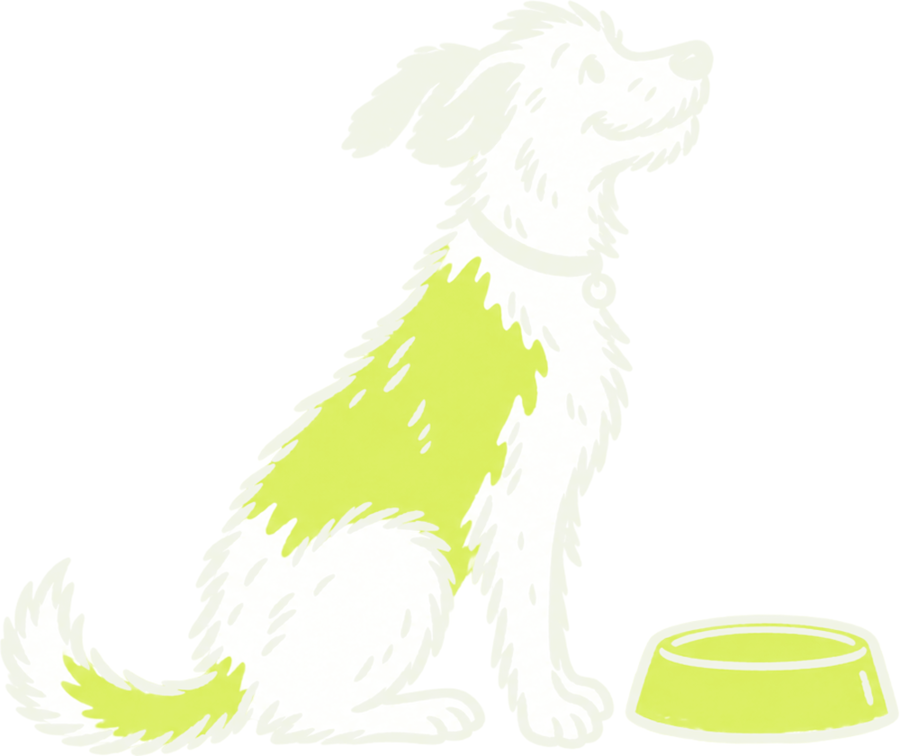
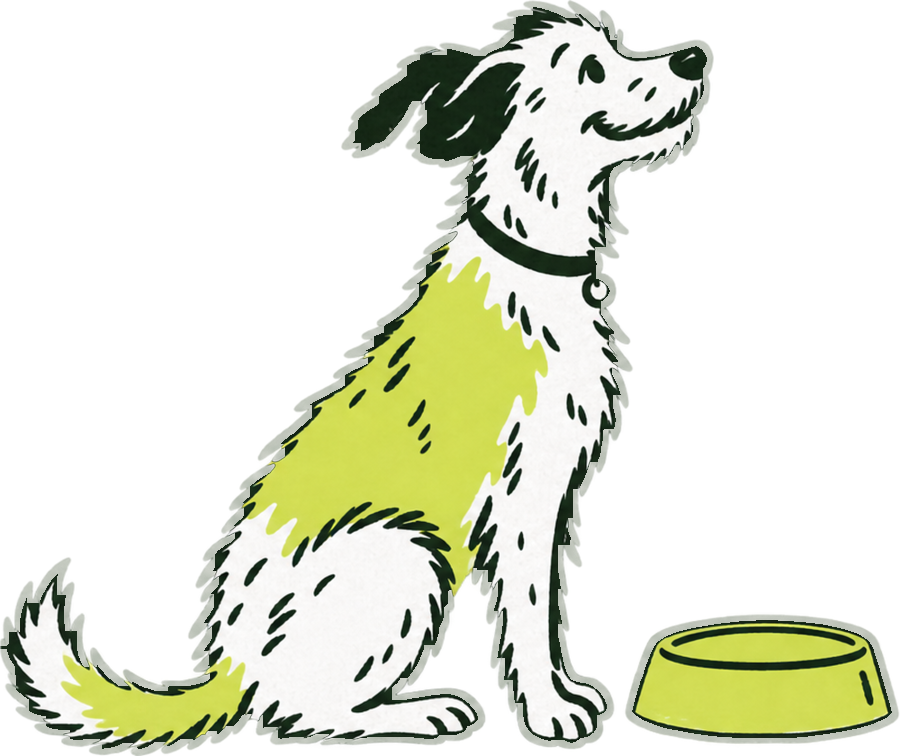
Website landing redesign: paper pile, Hundewiese, display-hero
New pose papers (dog in the paper pile) with handwritten prop labels, meadow
and ball-grass props, WebP copies for the website under
assets/illustrations/web, the display-hero type token, and the website
structure in 10-anwendung. sniffing-shell and bowl-shell now keep the white
coat like papers-shell. Decisions in 03, 05 and 10 (Fall 2).

diff --git a/preview/tokens.js b/preview/tokens.js
@@ -1,2 +1,2 @@
 /* Generated from tokens/tokens.json by scripts/build-tokens.js. Do not edit by hand. */
-window.FRAPPIES_TOKENS = {"$schema":"https://tr.designtokens.org/format/","$description":"Frappies brand tokens. Single source of truth for every surface (app, web, e-mail, stores). Values are identical to the shipping app (frappies-app: src/hooks/useThemeColors.ts, src/global.css). Edit this file, then run `node scripts/build-tokens.js` to regenerate tokens.css and tokens.tailwind.css.","$extensions":{"frappies":{"version":"1.0.0","world":"Hundewiese am Nachmittag (The Afternoon Dog Meadow)","idea":"The tennis ball always sits on the next thing your dog needs."}},"color":{"$type":"color","light":{"background":{"$value":"#F2F4EC","$description":"Kleeboden / Clover Ground. Page background behind every card."},"foreground":{"$value":"#14301F","$description":"Kleetinte / Clover Ink. Body text, headlines, active tab tint."},"card":{"$value":"#FFFFFF","$description":"Kartenweiß / Card White. Cards, fields, tab bar, round header buttons."},"primary":{"$value":"#D9EE52","$description":"Tennisball-Filz / Tennis-Ball Felt. The one primary action, the active tab, the active dog, the next ball. Identical in both themes."},"primary-foreground":{"$value":"#14301F","$description":"Tinte auf Filz / Ink On Felt. The only text colour allowed on felt."},"primary-soft":{"$value":"#ECF5C4","$description":"Filzwäsche / Felt Wash. Fill of a field whose value was read from a photo."},"primary-hover":{"$value":"#CDE33F","$description":"Felt one step deeper. Web hover state of the primary button only. Brand extension, not yet in the app."},"brand":{"$value":"#2E6B3F","$description":"Wiesengrün / Meadow Green. Links, outline button text and border, focused field border, caret, focus ring, success text."},"secondary":{"$value":"#14301F","$description":"Tintenfüllung / Clover Ink Fill. Secondary button, selected choice chip, the ink tool tile."},"secondary-foreground":{"$value":"#F2F4EC","$description":"Boden auf Tinte / Ground On Ink. Text on an ink fill."},"accent":{"$value":"#E7EBDD","$description":"Kleedunst / Clover Mist. Disclaimer banner, disabled fill, inactive choice chips, icon tiles."},"accent-foreground":{"$value":"#3F5A47","$description":"Dunsttinte / Mist Ink. Text inside the disclaimer banner."},"muted":{"$value":"#E7EBDD","$description":"Same as accent. Kept as a separate name for Tailwind/shadcn habits."},"muted-foreground":{"$value":"#5B6F5F","$description":"Salbei / Sage Text. Meta lines, placeholders, inactive tab labels, disabled labels. Tinted from clover, never grey."},"border":{"$value":"#DCE3D3","$description":"Heckenlinie / Hedge Line. 1px row dividers, 1.5px resting field border."},"destructive":{"$value":"#B42318","$description":"Alarmrot / Alarm Red. Error text, 10% error tint, destructive labels, delete icon. Never a large fill."},"destructive-foreground":{"$value":"#FFFFFF"},"success":{"$value":"#2E6B3F","$description":"Confirmation banners. Meadow Green in light."},"warning":{"$value":"#FF6A3D","$description":"Frisbee-Orange. Fill of a time chip that is due today or overdue. Nothing else."},"warning-foreground":{"$value":"#14301F","$description":"Tinte auf Frisbee / Ink On Frisbee."},"warning-ink":{"$value":"#B83A14","$description":"Frisbee-Tinte / Frisbee Ink. Orange as text on light surfaces."},"info":{"$value":"#2E6B3F"},"shell":{"$value":"#14301F","$description":"Kleeschale / Clover Shell. The dark header and hero cards."},"shell-foreground":{"$value":"#F2F4EC"},"shell-muted":{"$value":"#A9B8A6","$description":"Secondary text on the shell."},"shell-raised":{"$value":"#22432F","$description":"Raised well on the shell (avatar well)."}},"dark":{"background":{"$value":"#0F2117"},"foreground":{"$value":"#EEF2E6"},"card":{"$value":"#17301F"},"primary":{"$value":"#D9EE52","$description":"Felt never changes."},"primary-foreground":{"$value":"#14301F","$description":"Ink on felt never changes."},"primary-soft":{"$value":"#2E4220"},"primary-hover":{"$value":"#CDE33F"},"brand":{"$value":"#D9EE52","$description":"Meadow Green would vanish on the dark ground, so brand becomes felt."},"secondary":{"$value":"#EEF2E6","$description":"The ink fill flips to pale clover."},"secondary-foreground":{"$value":"#14301F"},"accent":{"$value":"#1E3A28"},"accent-foreground":{"$value":"#C3CDB8"},"muted":{"$value":"#1E3A28"},"muted-foreground":{"$value":"#A9B8A6"},"border":{"$value":"#2A4733"},"destructive":{"$value":"#FF7A66"},"destructive-foreground":{"$value":"#14301F"},"success":{"$value":"#A8D98A"},"warning":{"$value":"#FF8A5C"},"warning-foreground":{"$value":"#14301F"},"warning-ink":{"$value":"#FF8A5C"},"info":{"$value":"#A8D98A"},"shell":{"$value":"#1F3F2B"},"shell-foreground":{"$value":"#EEF2E6"},"shell-muted":{"$value":"#A9B8A6"},"shell-raised":{"$value":"#2C5239"}},"static":{"$description":"Values that never follow the theme.","felt":{"$value":"#D9EE52","$description":"Logo ball, wordmark on the shell, splash and icon."},"ink":{"$value":"#14301F","$description":"Logo line and letters on light grounds, icon background."},"chalk":{"$value":"#F2F4EC","$description":"Logo seam and zoomies loop on the icon."}}},"font":{"family":{"$type":"fontFamily","display":{"$value":["Bricolage Grotesque","system-ui","sans-serif"],"$description":"Headlines, counts, figures, the due time chip. Google Fonts, SIL Open Font License."},"body":{"$value":["Figtree","system-ui","sans-serif"],"$description":"Everything the thumb operates: body, labels, controls, meta. Google Fonts, SIL Open Font License."},"email":{"$value":["-apple-system","BlinkMacSystemFont","Segoe UI","Helvetica","Arial","sans-serif"],"$description":"HTML e-mail only, where web fonts do not load."}},"weight":{"$type":"fontWeight","display-heavy":{"$value":800},"display-bold":{"$value":700},"body-regular":{"$value":400},"body-semibold":{"$value":600},"body-bold":{"$value":700}}},"type":{"$type":"typography","$description":"fontFamily refers to font.family. Sizes in px at 1x. Web-only scales (display-xl, display-l) extend the app ramp upward for marketing surfaces.","display-xl":{"$value":{"fontFamily":"{font.family.display}","fontSize":"56px","fontWeight":800,"lineHeight":"60px","letterSpacing":"-0.03em"},"$description":"Web hero headline. Brand extension."},"display-l":{"$value":{"fontFamily":"{font.family.display}","fontSize":"44px","fontWeight":800,"lineHeight":"48px","letterSpacing":"-0.03em"},"$description":"Web section headline. Brand extension."},"display":{"$value":{"fontFamily":"{font.family.display}","fontSize":"32px","fontWeight":800,"lineHeight":"36px","letterSpacing":"-0.025em"},"$description":"Home shell headline, dog name on the detail hero, empty-state titles."},"figure":{"$value":{"fontFamily":"{font.family.display}","fontSize":"30px","fontWeight":800,"lineHeight":"32px","letterSpacing":"0"},"$description":"The count in a record cell. Never alone."},"headline":{"$value":{"fontFamily":"{font.family.display}","fontSize":"22px","fontWeight":800,"lineHeight":"28px","letterSpacing":"-0.025em"},"$description":"Floating header title, dog names in the list."},"title":{"$value":{"fontFamily":"{font.family.display}","fontSize":"20px","fontWeight":700,"lineHeight":"28px","letterSpacing":"0"},"$description":"Section headings."},"title-sm":{"$value":{"fontFamily":"{font.family.display}","fontSize":"18px","fontWeight":700,"lineHeight":"28px","letterSpacing":"0"},"$description":"Card sub-headings, form card titles."},"time-chip":{"$value":{"fontFamily":"{font.family.display}","fontSize":"14px","fontWeight":700,"lineHeight":"20px","letterSpacing":"0"},"$description":"The only Bricolage below 18px."},"body":{"$value":{"fontFamily":"{font.family.body}","fontSize":"16px","fontWeight":400,"lineHeight":"24px","letterSpacing":"0"}},"body-strong":{"$value":{"fontFamily":"{font.family.body}","fontSize":"16px","fontWeight":700,"lineHeight":"24px","letterSpacing":"0"},"$description":"Button labels, row titles in the Up-next track."},"row-title":{"$value":{"fontFamily":"{font.family.body}","fontSize":"15px","fontWeight":700,"lineHeight":"20px","letterSpacing":"0"},"$description":"Record-cell labels, dog-chip names."},"label":{"$value":{"fontFamily":"{font.family.body}","fontSize":"14px","fontWeight":600,"lineHeight":"20px","letterSpacing":"0"},"$description":"Field labels, choice chips, disclaimer."},"meta":{"$value":{"fontFamily":"{font.family.body}","fontSize":"13px","fontWeight":400,"lineHeight":"18px","letterSpacing":"0"}},"tab-label":{"$value":{"fontFamily":"{font.family.body}","fontSize":"12px","fontWeight":600,"lineHeight":"16px","letterSpacing":"0"},"$description":"Tab bar only."},"prose":{"$value":{"fontFamily":"{font.family.body}","fontSize":"18px","fontWeight":400,"lineHeight":"28px","letterSpacing":"0"},"$description":"Long-form reading on the web (articles, help). Brand extension."}},"radius":{"$type":"dimension","control":{"$value":"14px","$description":"Things you operate: buttons, fields, choice chips, banners."},"card":{"$value":"18px","$description":"Things you read: cards, record cells, hero cards."},"shell":{"$value":"28px","$description":"Bottom corners of the Home shell only."},"pill":{"$value":"9999px","$description":"Ball, avatars, dog chips, active tab pill, round icon buttons. Never a button."},"nested-sm":{"$value":"6px","$description":"Due time chip, dog-name tag. Only nested inside control or card radius."},"nested-md":{"$value":"10px","$description":"Choice chips in a grid, photo thumbnails. Only nested."}},"space":{"$type":"dimension","xs":{"$value":"4px"},"sm":{"$value":"8px"},"md":{"$value":"12px"},"lg":{"$value":"16px"},"xl":{"$value":"20px"},"2xl":{"$value":"24px"},"3xl":{"$value":"32px"},"4xl":{"$value":"48px","$description":"Web section rhythm. Brand extension."},"5xl":{"$value":"80px","$description":"Web section rhythm. Brand extension."}},"size":{"$type":"dimension","control":{"$value":"52px","$description":"Buttons and fields."},"touch":{"$value":"44px","$description":"Minimum hit area of anything tappable."},"icon-button":{"$value":"44px"},"icon":{"$value":"24px","$description":"Phosphor icon size in rows and tabs."},"icon-inline":{"$value":"18px","$description":"Icon inside a button label."},"row":{"$value":"64px","$description":"List row inside a card; 68px when it carries a meta line."},"record-cell":{"$value":"116px"},"header":{"$value":"60px","$description":"Floating header bar, plus status inset."},"tab-bar":{"$value":"70px","$description":"Plus bottom inset."},"avatar":{"$value":"32px","$description":"Inside a 44px dog chip."},"screen-inset":{"$value":"16px","$description":"20px on Home."},"ball-slot":{"$value":"40px","$description":"Fixed slot the next ball sits in."},"ball-today":{"$value":"34px","$description":"Due today or overdue. Shows the seam."},"ball-week":{"$value":"22px","$description":"Due this week. Plain disc."},"ball-later":{"$value":"10px","$description":"Later. Hedge-line dot."},"web-measure":{"$value":"68ch","$description":"Reading measure of web prose. Brand extension."},"web-container":{"$value":"1200px","$description":"Web content container. Brand extension."}},"stroke":{"$type":"dimension","field":{"$value":"1.5px","$description":"Resting field border, outline button border."},"divider":{"$value":"1px"},"focus":{"$value":"2px","$description":"Web focus ring, offset 2px, colour brand."}},"shadow":{"$type":"shadow","fab":{"$value":{"color":"rgba(20, 48, 31, 0.25)","offsetX":"0px","offsetY":"6px","blur":"14px","spread":"0px"},"$description":"The only shadow in the system: the floating add-dog button."}},"motion":{"spring":{"press":{"$value":{"damping":20,"stiffness":400},"$description":"Button press, scale to 0.97."},"entry":{"$value":{"damping":18,"stiffness":300},"$description":"Cards and illustrations entering."},"ball":{"$value":{"damping":14,"stiffness":140},"$description":"The next ball rolling onto the next row: 64px travel, 300deg spin."},"hero":{"$value":{"damping":14,"stiffness":120,"delay":150},"$description":"Home hero illustration."}},"duration":{"$type":"duration","fast":{"$value":"220ms","$description":"Ball resize, ease-out."},"base":{"$value":"250ms","$description":"Banner fade."},"slow":{"$value":"350ms"}},"easing":{"$type":"cubicBezier","out":{"$value":[0.16,1,0.3,1],"$description":"Exponential ease-out for anything web-side that is not a spring."}},"reduced-motion":{"$value":"Every motion has a branch that renders the final state. Entrances render static, the ball crossfades, buttons do not scale."}}};
+window.FRAPPIES_TOKENS = {"$schema":"https://tr.designtokens.org/format/","$description":"Frappies brand tokens. Single source of truth for every surface (app, web, e-mail, stores). Values are identical to the shipping app (frappies-app: src/hooks/useThemeColors.ts, src/global.css). Edit this file, then run `node scripts/build-tokens.js` to regenerate tokens.css and tokens.tailwind.css.","$extensions":{"frappies":{"version":"1.0.0","world":"Hundewiese am Nachmittag (The Afternoon Dog Meadow)","idea":"The tennis ball always sits on the next thing your dog needs."}},"color":{"$type":"color","light":{"background":{"$value":"#F2F4EC","$description":"Kleeboden / Clover Ground. Page background behind every card."},"foreground":{"$value":"#14301F","$description":"Kleetinte / Clover Ink. Body text, headlines, active tab tint."},"card":{"$value":"#FFFFFF","$description":"Kartenweiß / Card White. Cards, fields, tab bar, round header buttons."},"primary":{"$value":"#D9EE52","$description":"Tennisball-Filz / Tennis-Ball Felt. The one primary action, the active tab, the active dog, the next ball. Identical in both themes."},"primary-foreground":{"$value":"#14301F","$description":"Tinte auf Filz / Ink On Felt. The only text colour allowed on felt."},"primary-soft":{"$value":"#ECF5C4","$description":"Filzwäsche / Felt Wash. Fill of a field whose value was read from a photo."},"primary-hover":{"$value":"#CDE33F","$description":"Felt one step deeper. Web hover state of the primary button only. Brand extension, not yet in the app."},"brand":{"$value":"#2E6B3F","$description":"Wiesengrün / Meadow Green. Links, outline button text and border, focused field border, caret, focus ring, success text."},"secondary":{"$value":"#14301F","$description":"Tintenfüllung / Clover Ink Fill. Secondary button, selected choice chip, the ink tool tile."},"secondary-foreground":{"$value":"#F2F4EC","$description":"Boden auf Tinte / Ground On Ink. Text on an ink fill."},"accent":{"$value":"#E7EBDD","$description":"Kleedunst / Clover Mist. Disclaimer banner, disabled fill, inactive choice chips, icon tiles."},"accent-foreground":{"$value":"#3F5A47","$description":"Dunsttinte / Mist Ink. Text inside the disclaimer banner."},"muted":{"$value":"#E7EBDD","$description":"Same as accent. Kept as a separate name for Tailwind/shadcn habits."},"muted-foreground":{"$value":"#5B6F5F","$description":"Salbei / Sage Text. Meta lines, placeholders, inactive tab labels, disabled labels. Tinted from clover, never grey."},"border":{"$value":"#DCE3D3","$description":"Heckenlinie / Hedge Line. 1px row dividers, 1.5px resting field border."},"destructive":{"$value":"#B42318","$description":"Alarmrot / Alarm Red. Error text, 10% error tint, destructive labels, delete icon. Never a large fill."},"destructive-foreground":{"$value":"#FFFFFF"},"success":{"$value":"#2E6B3F","$description":"Confirmation banners. Meadow Green in light."},"warning":{"$value":"#FF6A3D","$description":"Frisbee-Orange. Fill of a time chip that is due today or overdue. Nothing else."},"warning-foreground":{"$value":"#14301F","$description":"Tinte auf Frisbee / Ink On Frisbee."},"warning-ink":{"$value":"#B83A14","$description":"Frisbee-Tinte / Frisbee Ink. Orange as text on light surfaces."},"info":{"$value":"#2E6B3F"},"shell":{"$value":"#14301F","$description":"Kleeschale / Clover Shell. The dark header and hero cards."},"shell-foreground":{"$value":"#F2F4EC"},"shell-muted":{"$value":"#A9B8A6","$description":"Secondary text on the shell."},"shell-raised":{"$value":"#22432F","$description":"Raised well on the shell (avatar well)."}},"dark":{"background":{"$value":"#0F2117"},"foreground":{"$value":"#EEF2E6"},"card":{"$value":"#17301F"},"primary":{"$value":"#D9EE52","$description":"Felt never changes."},"primary-foreground":{"$value":"#14301F","$description":"Ink on felt never changes."},"primary-soft":{"$value":"#2E4220"},"primary-hover":{"$value":"#CDE33F"},"brand":{"$value":"#D9EE52","$description":"Meadow Green would vanish on the dark ground, so brand becomes felt."},"secondary":{"$value":"#EEF2E6","$description":"The ink fill flips to pale clover."},"secondary-foreground":{"$value":"#14301F"},"accent":{"$value":"#1E3A28"},"accent-foreground":{"$value":"#C3CDB8"},"muted":{"$value":"#1E3A28"},"muted-foreground":{"$value":"#A9B8A6"},"border":{"$value":"#2A4733"},"destructive":{"$value":"#FF7A66"},"destructive-foreground":{"$value":"#14301F"},"success":{"$value":"#A8D98A"},"warning":{"$value":"#FF8A5C"},"warning-foreground":{"$value":"#14301F"},"warning-ink":{"$value":"#FF8A5C"},"info":{"$value":"#A8D98A"},"shell":{"$value":"#1F3F2B"},"shell-foreground":{"$value":"#EEF2E6"},"shell-muted":{"$value":"#A9B8A6"},"shell-raised":{"$value":"#2C5239"}},"static":{"$description":"Values that never follow the theme.","felt":{"$value":"#D9EE52","$description":"Logo ball, wordmark on the shell, splash and icon."},"ink":{"$value":"#14301F","$description":"Logo line and letters on light grounds, icon background."},"chalk":{"$value":"#F2F4EC","$description":"Logo seam and zoomies loop on the icon."}}},"font":{"family":{"$type":"fontFamily","display":{"$value":["Bricolage Grotesque","system-ui","sans-serif"],"$description":"Headlines, counts, figures, the due time chip. Google Fonts, SIL Open Font License."},"body":{"$value":["Figtree","system-ui","sans-serif"],"$description":"Everything the thumb operates: body, labels, controls, meta. Google Fonts, SIL Open Font License."},"email":{"$value":["-apple-system","BlinkMacSystemFont","Segoe UI","Helvetica","Arial","sans-serif"],"$description":"HTML e-mail only, where web fonts do not load."}},"weight":{"$type":"fontWeight","display-heavy":{"$value":800},"display-bold":{"$value":700},"body-regular":{"$value":400},"body-semibold":{"$value":600},"body-bold":{"$value":700}}},"type":{"$type":"typography","$description":"fontFamily refers to font.family. Sizes in px at 1x. Web-only scales (display-xl, display-l) extend the app ramp upward for marketing surfaces.","display-hero":{"$value":{"fontFamily":"{font.family.display}","fontSize":"72px","fontWeight":800,"lineHeight":"72px","letterSpacing":"-0.035em"},"$description":"Website landing hero headline only, from 1024px wide. Brand extension."},"display-xl":{"$value":{"fontFamily":"{font.family.display}","fontSize":"56px","fontWeight":800,"lineHeight":"60px","letterSpacing":"-0.03em"},"$description":"Web hero headline. Brand extension."},"display-l":{"$value":{"fontFamily":"{font.family.display}","fontSize":"44px","fontWeight":800,"lineHeight":"48px","letterSpacing":"-0.03em"},"$description":"Web section headline. Brand extension."},"display":{"$value":{"fontFamily":"{font.family.display}","fontSize":"32px","fontWeight":800,"lineHeight":"36px","letterSpacing":"-0.025em"},"$description":"Home shell headline, dog name on the detail hero, empty-state titles."},"figure":{"$value":{"fontFamily":"{font.family.display}","fontSize":"30px","fontWeight":800,"lineHeight":"32px","letterSpacing":"0"},"$description":"The count in a record cell. Never alone."},"headline":{"$value":{"fontFamily":"{font.family.display}","fontSize":"22px","fontWeight":800,"lineHeight":"28px","letterSpacing":"-0.025em"},"$description":"Floating header title, dog names in the list."},"title":{"$value":{"fontFamily":"{font.family.display}","fontSize":"20px","fontWeight":700,"lineHeight":"28px","letterSpacing":"0"},"$description":"Section headings."},"title-sm":{"$value":{"fontFamily":"{font.family.display}","fontSize":"18px","fontWeight":700,"lineHeight":"28px","letterSpacing":"0"},"$description":"Card sub-headings, form card titles."},"time-chip":{"$value":{"fontFamily":"{font.family.display}","fontSize":"14px","fontWeight":700,"lineHeight":"20px","letterSpacing":"0"},"$description":"The only Bricolage below 18px."},"body":{"$value":{"fontFamily":"{font.family.body}","fontSize":"16px","fontWeight":400,"lineHeight":"24px","letterSpacing":"0"}},"body-strong":{"$value":{"fontFamily":"{font.family.body}","fontSize":"16px","fontWeight":700,"lineHeight":"24px","letterSpacing":"0"},"$description":"Button labels, row titles in the Up-next track."},"row-title":{"$value":{"fontFamily":"{font.family.body}","fontSize":"15px","fontWeight":700,"lineHeight":"20px","letterSpacing":"0"},"$description":"Record-cell labels, dog-chip names."},"label":{"$value":{"fontFamily":"{font.family.body}","fontSize":"14px","fontWeight":600,"lineHeight":"20px","letterSpacing":"0"},"$description":"Field labels, choice chips, disclaimer."},"meta":{"$value":{"fontFamily":"{font.family.body}","fontSize":"13px","fontWeight":400,"lineHeight":"18px","letterSpacing":"0"}},"tab-label":{"$value":{"fontFamily":"{font.family.body}","fontSize":"12px","fontWeight":600,"lineHeight":"16px","letterSpacing":"0"},"$description":"Tab bar only."},"prose":{"$value":{"fontFamily":"{font.family.body}","fontSize":"18px","fontWeight":400,"lineHeight":"28px","letterSpacing":"0"},"$description":"Long-form reading on the web (articles, help). Brand extension."}},"radius":{"$type":"dimension","control":{"$value":"14px","$description":"Things you operate: buttons, fields, choice chips, banners."},"card":{"$value":"18px","$description":"Things you read: cards, record cells, hero cards."},"shell":{"$value":"28px","$description":"Bottom corners of the Home shell only."},"pill":{"$value":"9999px","$description":"Ball, avatars, dog chips, active tab pill, round icon buttons. Never a button."},"nested-sm":{"$value":"6px","$description":"Due time chip, dog-name tag. Only nested inside control or card radius."},"nested-md":{"$value":"10px","$description":"Choice chips in a grid, photo thumbnails. Only nested."}},"space":{"$type":"dimension","xs":{"$value":"4px"},"sm":{"$value":"8px"},"md":{"$value":"12px"},"lg":{"$value":"16px"},"xl":{"$value":"20px"},"2xl":{"$value":"24px"},"3xl":{"$value":"32px"},"4xl":{"$value":"48px","$description":"Web section rhythm. Brand extension."},"5xl":{"$value":"80px","$description":"Web section rhythm. Brand extension."}},"size":{"$type":"dimension","control":{"$value":"52px","$description":"Buttons and fields."},"touch":{"$value":"44px","$description":"Minimum hit area of anything tappable."},"icon-button":{"$value":"44px"},"icon":{"$value":"24px","$description":"Phosphor icon size in rows and tabs."},"icon-inline":{"$value":"18px","$description":"Icon inside a button label."},"row":{"$value":"64px","$description":"List row inside a card; 68px when it carries a meta line."},"record-cell":{"$value":"116px"},"header":{"$value":"60px","$description":"Floating header bar, plus status inset."},"tab-bar":{"$value":"70px","$description":"Plus bottom inset."},"avatar":{"$value":"32px","$description":"Inside a 44px dog chip."},"screen-inset":{"$value":"16px","$description":"20px on Home."},"ball-slot":{"$value":"40px","$description":"Fixed slot the next ball sits in."},"ball-today":{"$value":"34px","$description":"Due today or overdue. Shows the seam."},"ball-week":{"$value":"22px","$description":"Due this week. Plain disc."},"ball-later":{"$value":"10px","$description":"Later. Hedge-line dot."},"web-measure":{"$value":"68ch","$description":"Reading measure of web prose. Brand extension."},"web-container":{"$value":"1200px","$description":"Web content container. Brand extension."}},"stroke":{"$type":"dimension","field":{"$value":"1.5px","$description":"Resting field border, outline button border."},"divider":{"$value":"1px"},"focus":{"$value":"2px","$description":"Web focus ring, offset 2px, colour brand."}},"shadow":{"$type":"shadow","fab":{"$value":{"color":"rgba(20, 48, 31, 0.25)","offsetX":"0px","offsetY":"6px","blur":"14px","spread":"0px"},"$description":"The only shadow in the system: the floating add-dog button."}},"motion":{"spring":{"press":{"$value":{"damping":20,"stiffness":400},"$description":"Button press, scale to 0.97."},"entry":{"$value":{"damping":18,"stiffness":300},"$description":"Cards and illustrations entering."},"ball":{"$value":{"damping":14,"stiffness":140},"$description":"The next ball rolling onto the next row: 64px travel, 300deg spin."},"hero":{"$value":{"damping":14,"stiffness":120,"delay":150},"$description":"Home hero illustration."}},"duration":{"$type":"duration","fast":{"$value":"220ms","$description":"Ball resize, ease-out."},"base":{"$value":"250ms","$description":"Banner fade."},"slow":{"$value":"350ms"}},"easing":{"$type":"cubicBezier","out":{"$value":[0.16,1,0.3,1],"$description":"Exponential ease-out for anything web-side that is not a spring."}},"reduced-motion":{"$value":"Every motion has a branch that renders the final state. Entrances render static, the ball crossfades, buttons do not scale."}}};

diff --git a/tokens/tokens.css b/tokens/tokens.css
@@ -33,6 +33,11 @@
   --font-body: Figtree, system-ui, sans-serif;
   --font-email: -apple-system, BlinkMacSystemFont, "Segoe UI", Helvetica, Arial, sans-serif;
 
+  --type-display-hero-family: var(--font-display);
+  --type-display-hero-size: 72px;
+  --type-display-hero-weight: 800;
+  --type-display-hero-leading: 72px;
+  --type-display-hero-tracking: -0.035em;
   --type-display-xl-family: var(--font-display);
   --type-display-xl-size: 56px;
   --type-display-xl-weight: 800;

diff --git a/guide/10-anwendung.md b/guide/10-anwendung.md
@@ -16,10 +16,11 @@ Modus: Überzeugen. Die Besucherin soll verstehen, was Frappies ist, glauben, da
 
 **Struktur, die zur Marke passt:**
 
-1. **Hero auf der Kleeschale**, genau wie Home: Wortmarke in Filz oben links, Display XL mit genau einem Satzteil in Filz, die Zoomie-Shell-Illustration läuft rechts aus dem Bild. Ein Primärbutton. Die Schale endet in 28-px-Unterecken.
-2. **Danach Kleeboden** mit weißen Karten, die echte App-Inhalte zeigen: eine Hundekarte mit Ball, eine Akten-Zelle, ein Zeit-Chip in Orange. Die Website zeigt das Produkt, nicht Symbole für das Produkt.
-3. **Privatsphäre und KI** als eigene Sektion, in der Schärfe aus [08 Sprache](08-sprache.md): Bilder flüchtig, nur Werte gespeichert, die Praxis entscheidet. Der KI-Hinweis steht wörtlich dabei.
-4. **Premium** sachlich: was es ändert (kein Monatskontingent), was es nicht ändert (alles andere ist kostenlos, das Tageslimit gilt auch mit Premium). Die Preise stehen je Markt in einer eigenen Zeile, darunter „Preise inkl. MwSt.“; kein „% sparen“, kein Hervorheben eines Abos.
+1. **Hero auf der Kleeschale**, genau wie Home: Wortmarke in Filz oben links, Display Hero mit genau einem Satzteil in Filz, rechts der Hund im Zettelhaufen (`papers-shell`). Ein Primärbutton. Die Schale endet in 28-px-Unterecken.
+2. **Die Hundewiese** direkt unter der Schale: Hecke am Horizont, darauf die Ballskala als Entfernung. Heute nah und groß mit dem orangen Zeit-Chip, diese Woche in der Mitte, später klein an der Hecke, jeweils mit einer weißen Karte.
+3. **Danach Kleeboden** mit weißen Karten, die echte App-Inhalte zeigen: eine Hundekarte mit Ball, eine Akten-Zelle, ein Zeit-Chip in Orange. Die Website zeigt das Produkt, nicht Symbole für das Produkt.
+4. **Privatsphäre und KI** als eigene Sektion auf dunklem Grund (Klasse `dark`), in der Schärfe aus [08 Sprache](08-sprache.md): Bilder flüchtig, nur Werte gespeichert, die Praxis entscheidet. Der KI-Hinweis steht wörtlich dabei, jeder Beispielausgabe ihr eigener.
+5. **Premium** sachlich: was es ändert (kein Monatskontingent), was es nicht ändert (alles andere ist kostenlos, das Tageslimit gilt auch mit Premium). Die Preise stehen je Markt in einer eigenen Zeile, darunter „Preise inkl. MwSt.“; kein „% sparen“, kein Hervorheben eines Abos.
 
    | Markt | Monatlich | Jährlich |
    |---|---|---|
@@ -27,7 +28,7 @@ Modus: Überzeugen. Die Besucherin soll verstehen, was Frappies ist, glauben, da
    | Schweiz | CHF 4.00 | CHF 40.00 |
 
    Frappies gibt es nur in diesen drei Ländern. Der Preis wird nicht nach Standort ausgewählt: Die Stores rechnen nach dem Land des Store-Kontos ab, nicht nach dem Ort der Besucherin.
-5. **Abschluss** mit dem ruhenden Hund und einem zweiten Primärbutton (der erste ist außer Sicht; pro Viewport einer).
+6. **Abschluss** mit dem ruhenden Hund und einem zweiten Primärbutton (der erste ist außer Sicht; pro Viewport einer).
 
 **Vor dem Start:** Solange die App in keinem Store steht, hat die Website keinen Primärbutton. An der Stelle beider Buttons steht die Startzeile in Prose: „Ab Januar 2027 für iPhone und Android in Deutschland, Österreich und der Schweiz.“ Keine Warteliste, kein Formular, kein „Bescheid geben“-Link, kein deaktivierter Button. Mit den Store-Links kommen die Buttons zurück.
 
@@ -124,3 +125,9 @@ Kontext: Die Website geht vor der App online (namelessjames/frappies-web#6). Die
 Entscheidung: Bis zu den Store-Links kein Primärbutton; die Startzeile steht an seiner Stelle. Der Filz bleibt dem Satzteil im Hero und dem Ball vorbehalten.
 Verworfen: Bescheid per E-Mail (sammelt Adressen, die niemand verwalten will), Anmeldeformular (braucht einen Server, frappies-web ADR 0001), ein Button, der nur nach unten springt (Filz ohne nächsten Schritt verletzt „Felt Means Next“), ein deaktivierter Button (wirkt kaputt).
 Web: namelessjames/frappies-web#6.
+
+### 2026-10-21: Landing Page mit Zettelhaufen und Hundewiese
+Kontext: Der Inhaber fand die Landing Page langweilig und wollte sie mit den Illustrationen lebendiger. Aus drei Strukturen und drei Kombinationen gewählt: oben der Zettelhaufen, darunter die Hundewiese. Fall 2 (die Struktur der Website ändert sich).
+Entscheidung: Hero mit „Weniger Zettel, mehr Zeit für deinen Hund.“ und dem Hund im Zettelhaufen; die frühere Hero-Zeile schließt jetzt die Seite. Die Hundewiese zeigt die Ballskala als Tiefe, mit Zoomer als Beispielhund. Jeder Abschnitt hat seine Pose (Tag bei den Hunden, Lead bei der Akte, Sniffing beim Befund, Bowl beim Futterplan, Ball bei Premium, Resting am Schluss). Die KI-Sektion liegt dunkel, jede Beispielausgabe trägt ihren KI-Hinweis wörtlich. Bewegung: ein Moment beim Laden, der Hero auf `motion.spring.hero`, dann landen die Dinge auf der Wiese von hinten nach vorn auf `motion.spring.entry`; unter Reduced Motion steht alles.
+Verworfen: der Hundecomic (Panels kippen schnell in ein Kartenraster), die Wiese als Hero (das Zettel-Bild trägt den Einstieg stärker), eine durchgehende Szene mit fliegenden Bällen (zu viel Filz als Dekoration).
+Web: namelessjames/frappies-web, Landing-Redesign (PR folgt).

diff --git a/guide/05-illustration.md b/guide/05-illustration.md
@@ -25,14 +25,19 @@ Der Frappies-Hund ist ein struppiger, mittelgroßer Mischling, mit lockerer Pins
 | Bowl | `bowl.png` | Futter | Futterplan |
 | Lead | `lead.png` | Rausgehen | Tierarztpraxen, Tierarztbesuche, Gassi-Runden |
 | Tag | `tag.png` | Identität | Hundemarken, Chipnummer |
+| Papers | `papers.png` | Der Zettelhaufen vor Frappies | Website-Hero |
 
-Alle Posen sind so beschnitten, dass sie etwa gleich hoch stehen. Seitenverhältnisse (Höhe ÷ Breite): zoomie 594/973, resting 580/932, ball 622/871, listening 900/664, sniffing 593/900, bowl 756/900, lead 626/900, tag 837/657.
+Requisiten und Flächen ohne Hund, nur für die Website: `meadow.png` (die Hundewiese: Hecke am Horizont, Grasbüschel, nur Linie) und `ball-grass.png` (der gezeichnete Ball im Gras, für die Ballskala auf der Wiese).
+
+Alle Posen sind so beschnitten, dass sie etwa gleich hoch stehen. Seitenverhältnisse (Höhe ÷ Breite): papers 1004/1456, zoomie 594/973, resting 580/932, ball 622/871, listening 900/664, sniffing 593/900, bowl 756/900, lead 626/900, tag 837/657.
 
 ## Shell-Varianten
 
 Jede Pose hat eine `*-shell.png`: helle Linie (Kreide), Fell ausgespart, dieselben Filzflächen. Sie gehört auf die Kleeschale und auf jede dunkle Fläche, weil Tintenlinien dort verschwinden. In der App wählt `Illustration` im Dunkelmodus automatisch die Shell-Variante. Die Originale mit weißem Fell gehören auf Weiß und Kleeboden.
 
-Nie ein Original auf Dunkel, nie eine Shell-Variante auf Hell.
+Nie ein Original auf Dunkel, nie eine Shell-Variante auf Hell. Ausnahmen `papers-shell.png`, `sniffing-shell.png` und `bowl-shell.png`: Fell und Zettel bleiben weiß, nur die Außenlinie wird Kreide (siehe Entscheidungen unten).
+
+Für die Website liegen unter `assets/illustrations/web/` WebP-Kopien (höchstens 1600 px breit, die Wiese 2880 px), aus den PNG erzeugt; die Website kopiert nur diese.
 
 ## Wo sie hingehört
 
@@ -59,3 +64,17 @@ Subject: a scruffy medium-sized mixed-breed dog [POSE AND PROPS]. The dog's body
 ```
 
 Kein Stock-Hundebild, kein zweiter Illustrationsstil, keine Fotografie als Ersatz. Wenn die Marke je Fotografie braucht, ist das eine Entscheidung mit eigenem Kapitel, nicht ein Bild in einem Beitrag.
+
+## Entscheidungen
+
+### 2026-10-21: Zettelhaufen, Hundewiese und Ball im Gras für die Website
+Kontext: Die Landing Page war zu brav (namelessjames/frappies-web, Landing-Redesign). Der gewählte Entwurf öffnet auf dem Zettelchaos, das jede Hundehalterin kennt, und löst es auf der Hundewiese auf, wo Dringlichkeit Entfernung ist. Dafür fehlten eine Pose und zwei Requisiten. Fall 2 (bestehende Regeln ändern sich: Text in der Zeichnung, Shell-Variante mit weißem Fell, die Wiese als Fläche unter App-Karten).
+Entscheidung: Neue Pose `papers.png` (Hund schnüffelt im Zettelhaufen) mit dem Stil-Prompt und `zoomie.png`/`sniffing.png` als Vorlage. Auf ihren Requisiten stehen drei handgeschriebene Wörter (Impfpass, Wurmkur??, Blutbild) in derselben Tuschlinie; sie erzählen das Chaos, sonst bleibt Text aus Zeichnungen draußen. `papers-shell.png` behält auf Wunsch des Inhabers Fell und Zettel weiß und färbt nur die Außenlinie in Kreide, damit der Hund auf der Schale wie im Entwurf steht. `meadow.png` ist die Wiese als reine Linie; auf ihr stehen nur die Karten der Ballskala, nie Fließtext. `ball-grass.png` ist der Ball der Ballskala als Zeichnung, nur auf der Wiese; in der App bleibt der Ball die Komponente. Tinte auf Filz bleibt Tinte auch in den Shell-Varianten.
+Verworfen: Shell-Variante mit ausgespartem Fell (der Inhaber wollte die Linien dunkel und die Flächen weiß), Wörter als HTML über der Zeichnung (bricht beim Skalieren auseinander), ein Foto echter Zettel (zweiter Bildstil), die Wiese als Muster hinter Text (verletzt „Wo nicht“).
+Web: namelessjames/frappies-web, Landing-Redesign (PR folgt).
+
+### 2026-10-21: Sniffing und Bowl auf Dunkel wie der Zettelhaufen
+Kontext: Auf der Website stehen Sniffing und Bowl in der dunklen KI-Sektion, direkt nach dem Hero mit `papers-shell.png`. Zwei Behandlungen desselben Hundes auf demselben Grund wirkten wie zwei Hunde. Fall 2 (bestehende Shell-Varianten ändern sich; die App nutzt sie im Dunkelmodus).
+Entscheidung: `sniffing-shell.png` und `bowl-shell.png` bekommen dieselbe Behandlung wie `papers-shell.png`: Fell weiß, innere Linien Tinte, Außenlinie Kreide. Die übrigen Shell-Varianten bleiben vorerst ausgespart, bis die App entschieden hat.
+Verworfen: alle Shell-Varianten auf einmal umstellen (ändert jeden dunklen App-Zustand ohne Prüfung), nur die Website-Kopien ändern (die Website kopiert die Marke byte-genau).
+Web: namelessjames/frappies-web, Landing-Redesign.

diff --git a/guide/03-typografie.md b/guide/03-typografie.md
@@ -18,6 +18,7 @@ In der App heißen die Dateien `BricolageGrotesque_800ExtraBold`, `BricolageGrot
 
 | Stil | Token | Schrift | Größe / Zeile | Gewicht | Laufweite | Einsatz |
 |---|---|---|---|---|---|---|
+| Display Hero | `type.display-hero` | Bricolage | 72 / 72 | 800 | -0.035em | Nur Landing-Hero der Website, ab 1024 px. Erweiterung |
 | Display XL | `type.display-xl` | Bricolage | 56 / 60 | 800 | -0.03em | Web-Hero. Erweiterung |
 | Display L | `type.display-l` | Bricolage | 44 / 48 | 800 | -0.03em | Web-Sektionstitel. Erweiterung |
 | Display | `type.display` | Bricolage | 32 / 36 | 800 | -0.025em | Home-Überschrift (Zahl in Filz), Hundename auf dem Hero, Leerzustand-Titel |
@@ -67,3 +68,11 @@ Die App kennt keine Größe über 32 px. Für Website und Marketing erweitert di
 ```
 
 Für die Produktion selbst hosten (WOFF2, `font-display: swap`); die OFL erlaubt es. Bricolage ist eine variable Schrift mit optischer Größe; `font-optical-sizing: auto` lassen.
+
+## Entscheidungen
+
+### 2026-10-21: Display Hero für die Landing Page
+Kontext: Der gewählte Entwurf der Landing Page setzt die Hero-Zeile mit 53 px Versalhöhe, das sind 72 px Bricolage 800. Display XL (56 px) trägt die Zeile „Weniger Zettel, mehr Zeit für deinen Hund.“ nicht mit der Wucht des Entwurfs. Fall 2 (Weiterentwicklung der Web-Typoskala).
+Entscheidung: `type.display-hero` 72/72, 800, -0.035em, nur für den Hero der Landing Page ab 1024 px. Darunter Display XL, auf dem Telefon Display L. Die App nutzt sie nicht.
+Verworfen: Display XL auf 72 px anheben (ändert jede Website-Überschrift), freie Größe im Code (umgeht die Tokens).
+Web: namelessjames/frappies-web, Landing-Redesign (PR folgt).
